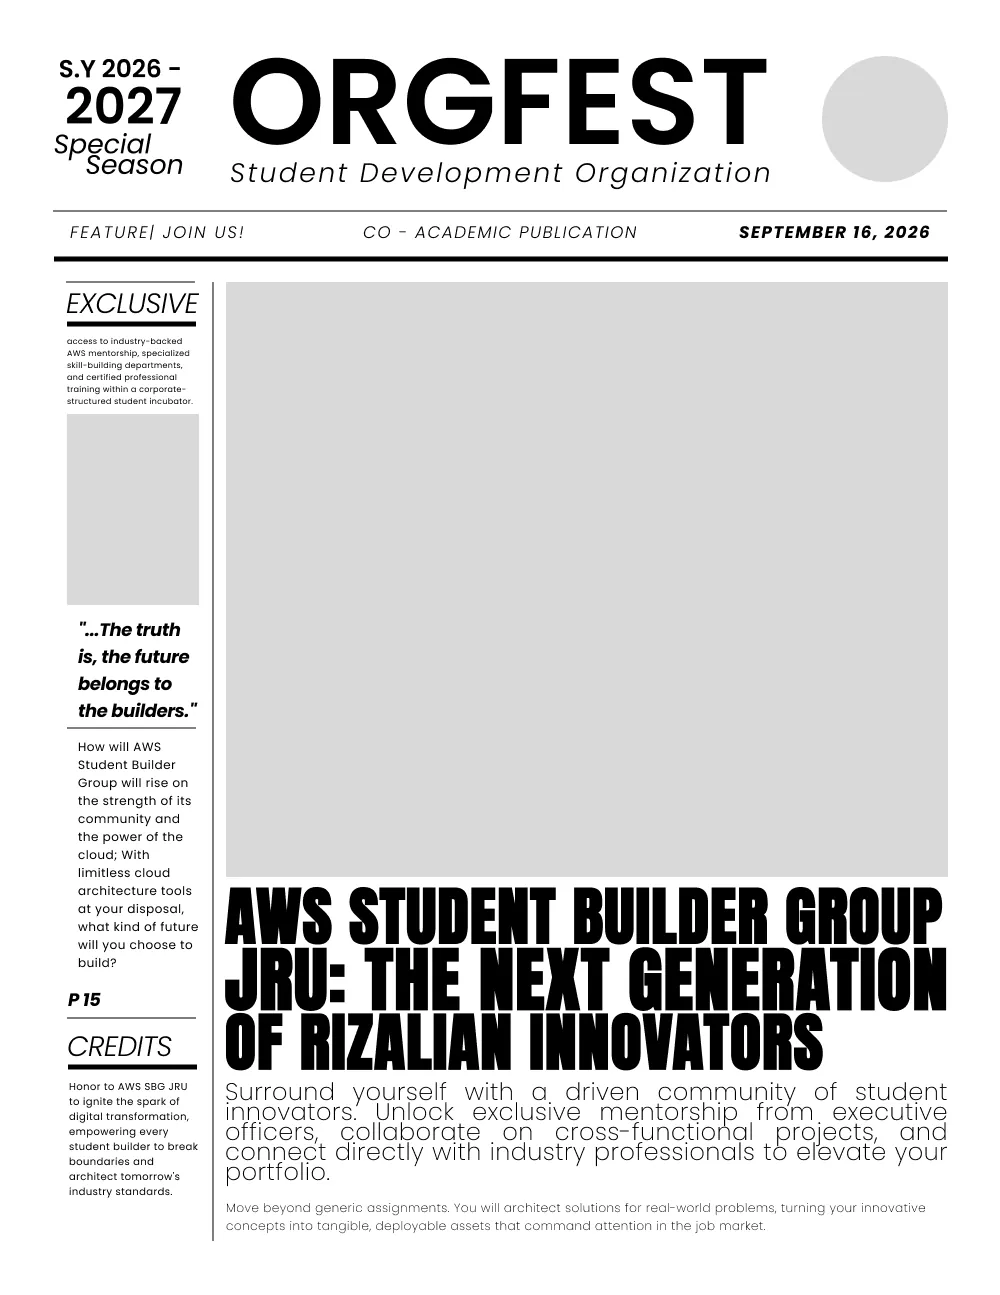
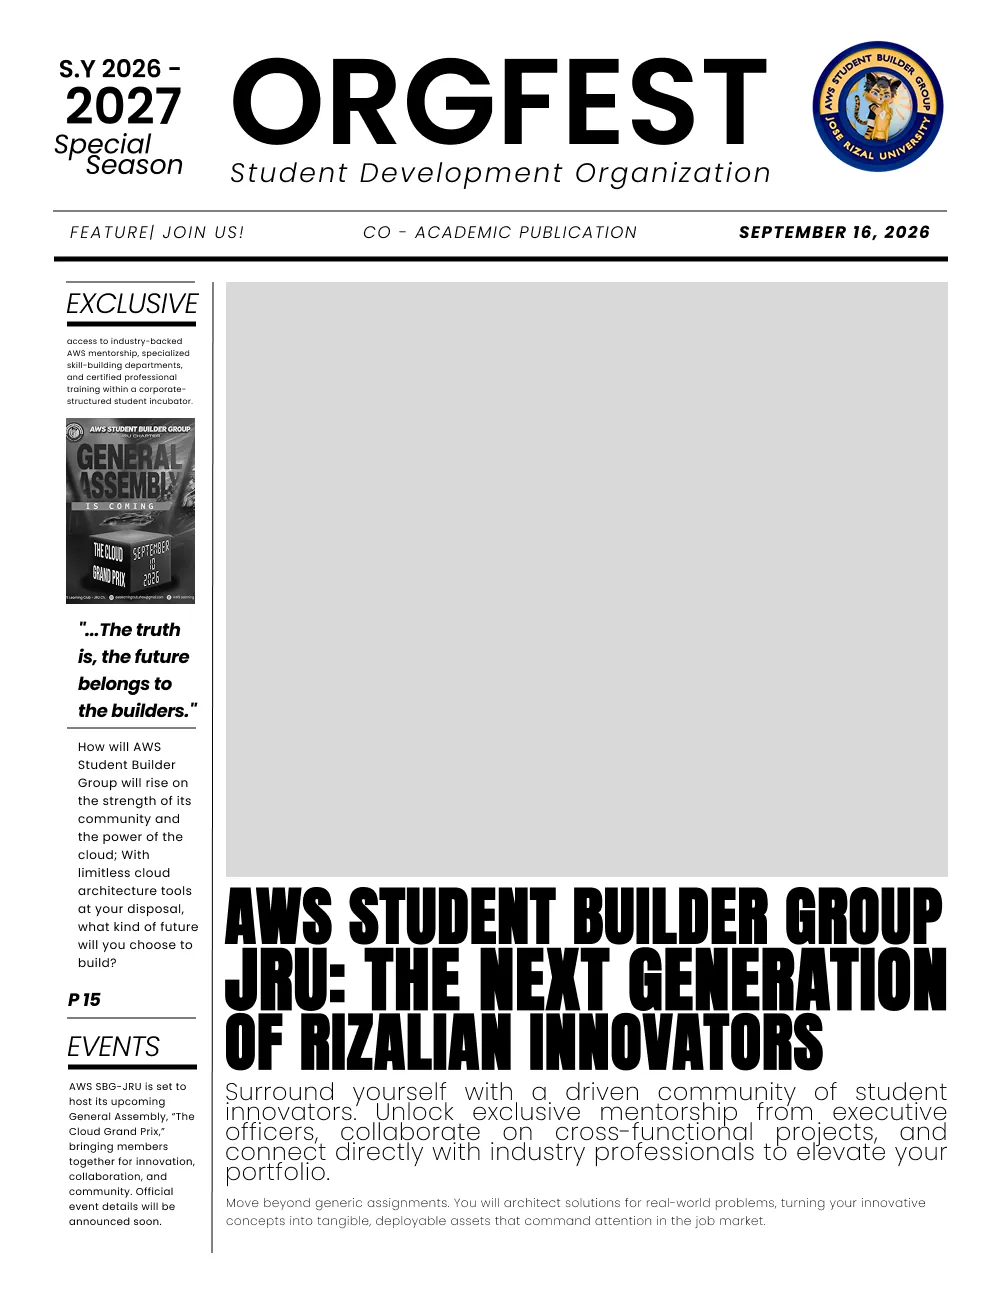
template1: refresh orgfest frame from Figma 53:103 with real assets
- photo-frame.webp: fresh export of 53:103 (was stale 74:364 with gray placeholders); logo 82:947 + GA image2 116:264 now baked in from Figma fills
- SLOTS.orgfest: re-measured Rectangle 43 (226,282 722x595) -> exact fractions
- Verified: test composite fills photo rect cleanly, no text overlap

diff --git a/frontend/src/utils/composeNewspaper.js b/frontend/src/utils/composeNewspaper.js
@@ -2,10 +2,10 @@ import photoFrame from '../assets/photo-frame.webp'
 import photoFrameAlt from '../assets/photo-frame-alt.webp'
 
 // Photo slots per template, as fractions (measured from Figma).
-// orgfest = Frame 53:103 ORGFEST (gray rect 226,282 722x595 on 1000x1295 canvas)
+// orgfest = Frame 53:103 ORGFEST (Rectangle 43: x 226, y 282, w 722, h 595 on 1000x1295 canvas)
 // alt = Frame 114:157 "ux design" (Rectangle 44: x 47.01, y 480, w 729, h 476 on 1000x1295 canvas)
 export const SLOTS = {
-  orgfest: { left: 0.228, top: 0.22, right: 0.947, bottom: 0.6757 },
+  orgfest: { left: 0.226, top: 0.2178, right: 0.948, bottom: 0.6772 },
   alt: { left: 0.047, top: 0.3707, right: 0.776, bottom: 0.7382 },
 }
 
